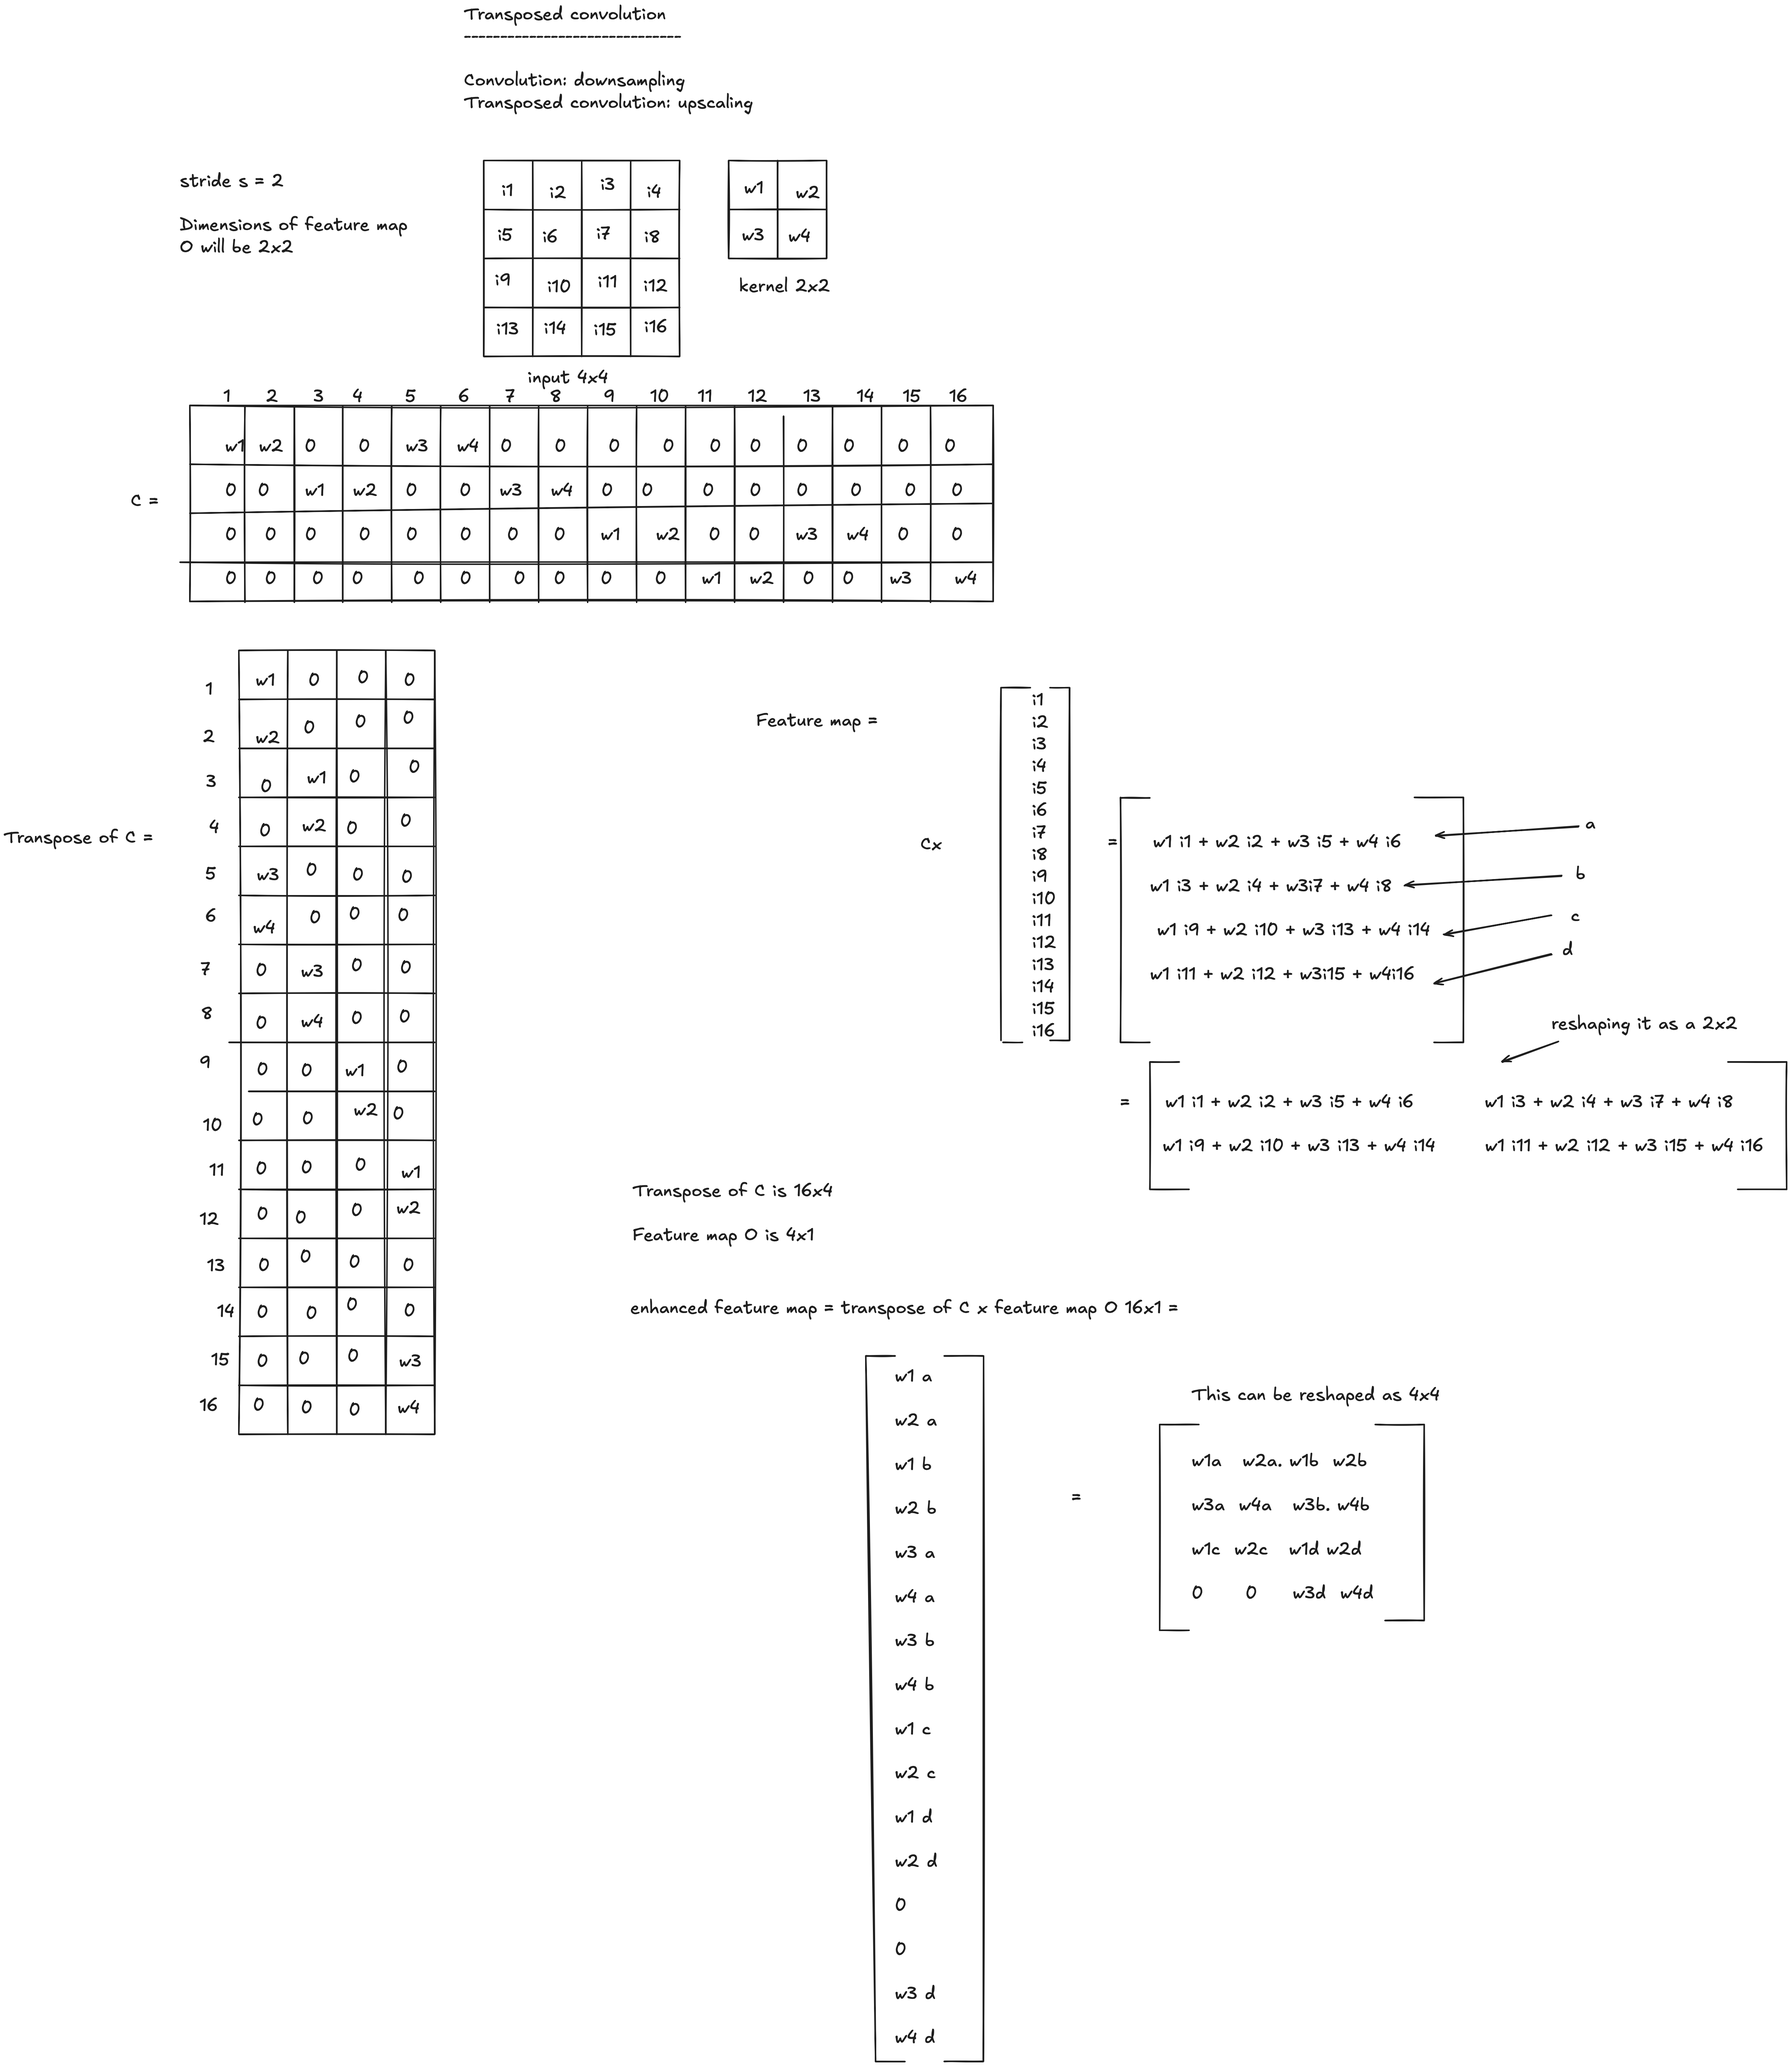
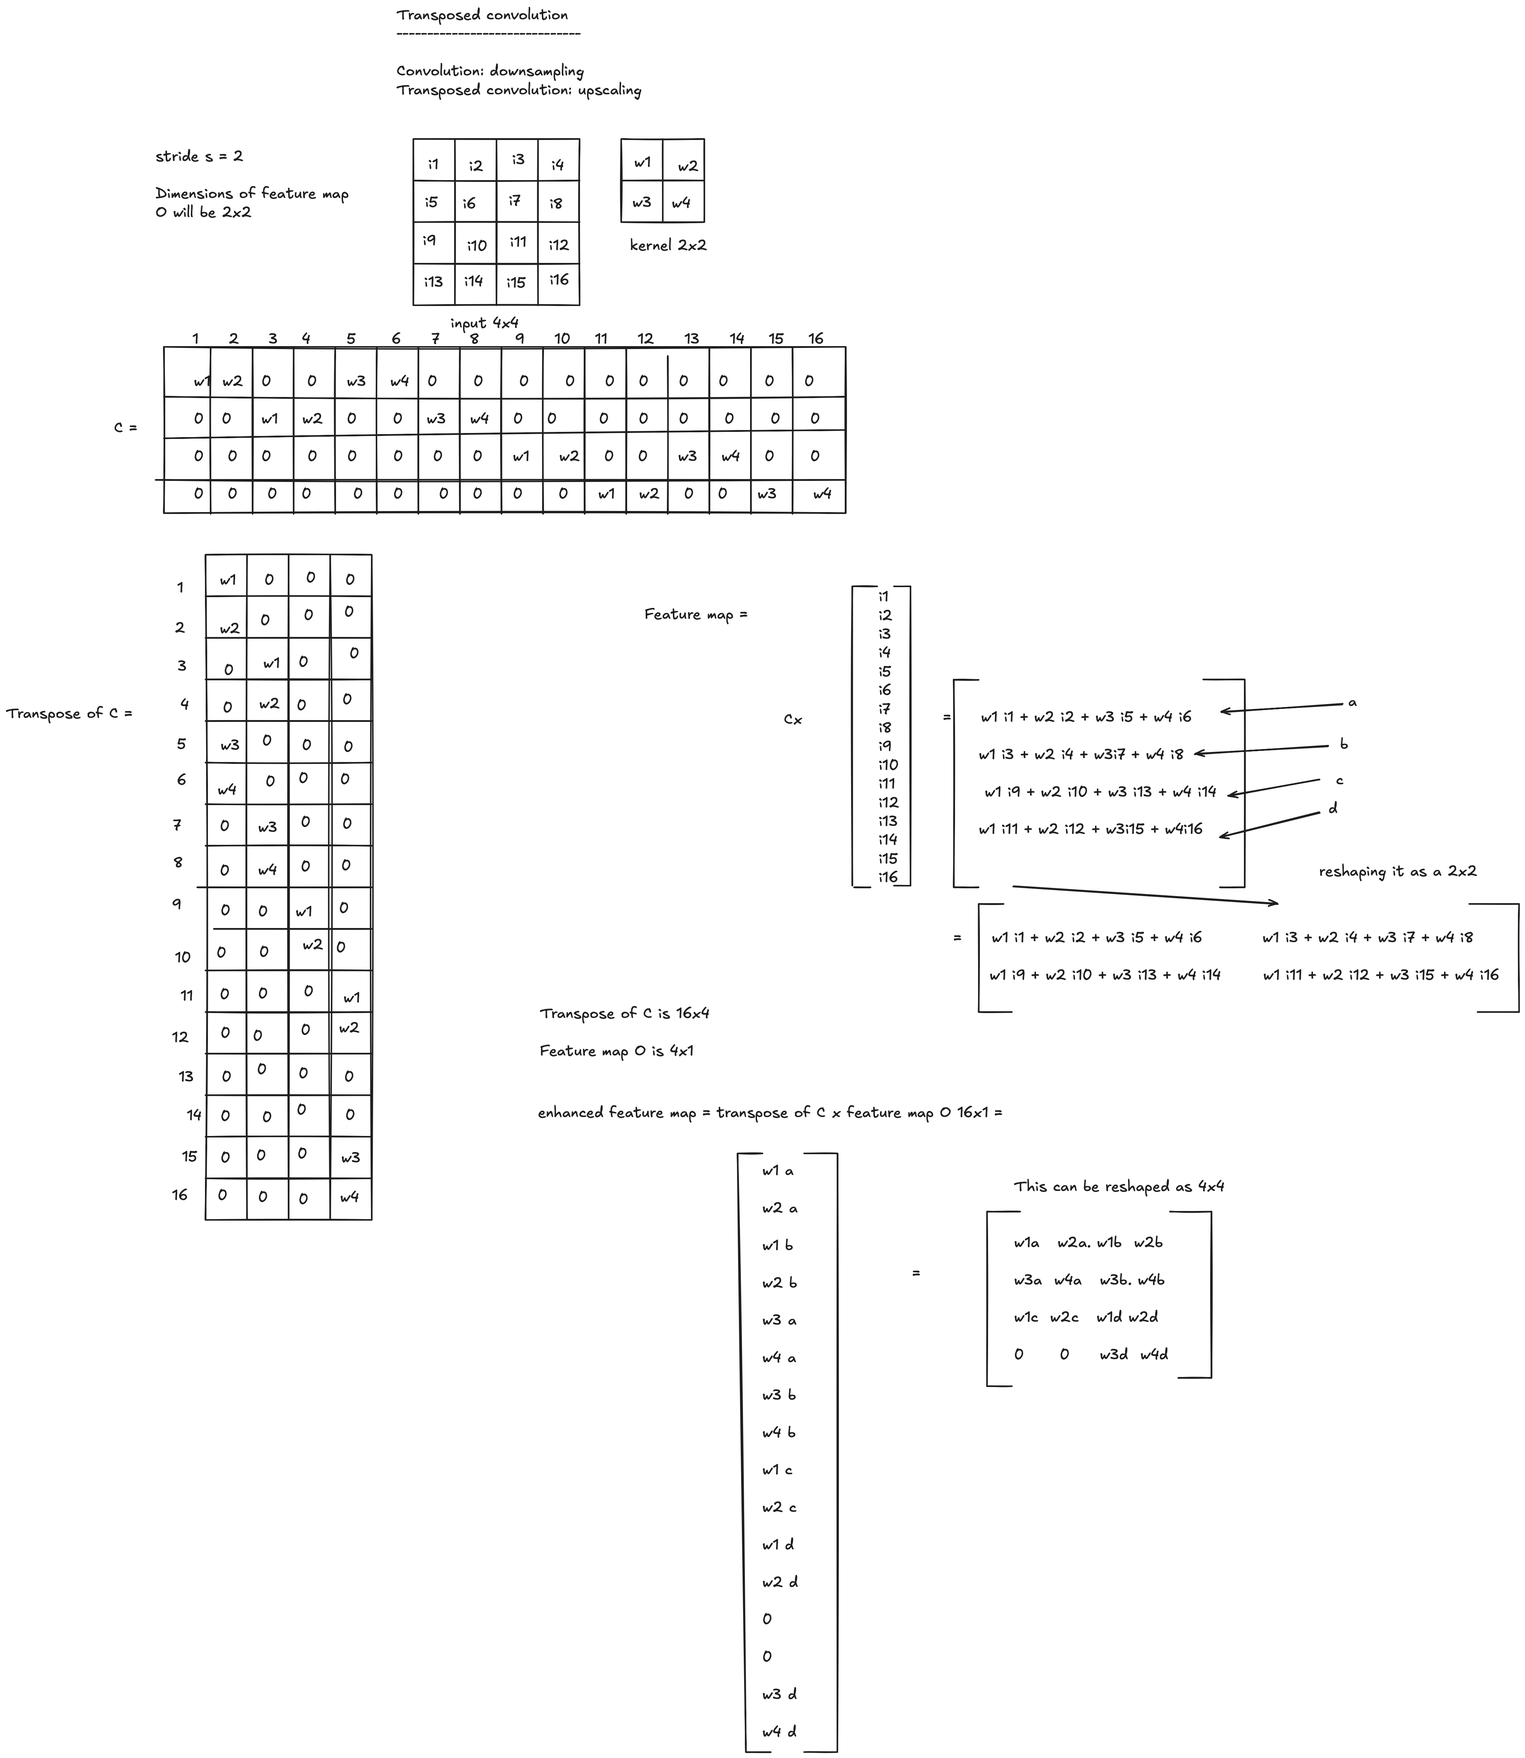
Update post deep learning paper reading - 1

diff --git a/posts/deep_learning_paper_reading_1/index.html b/posts/deep_learning_paper_reading_1/index.html
@@ -81,6 +81,7 @@
 <p><img src="agtcafdl-23.png" alt="alt text"></p>
 <p><img src="agtcafdl-24.png" alt="alt text"></p>
 <p><img src="agtcafdl-25.png" alt="alt text"></p>
+<p><img src="agtcafdl-26.png" alt="alt text"></p>
 
     </div>
     <div class="post-footer">
